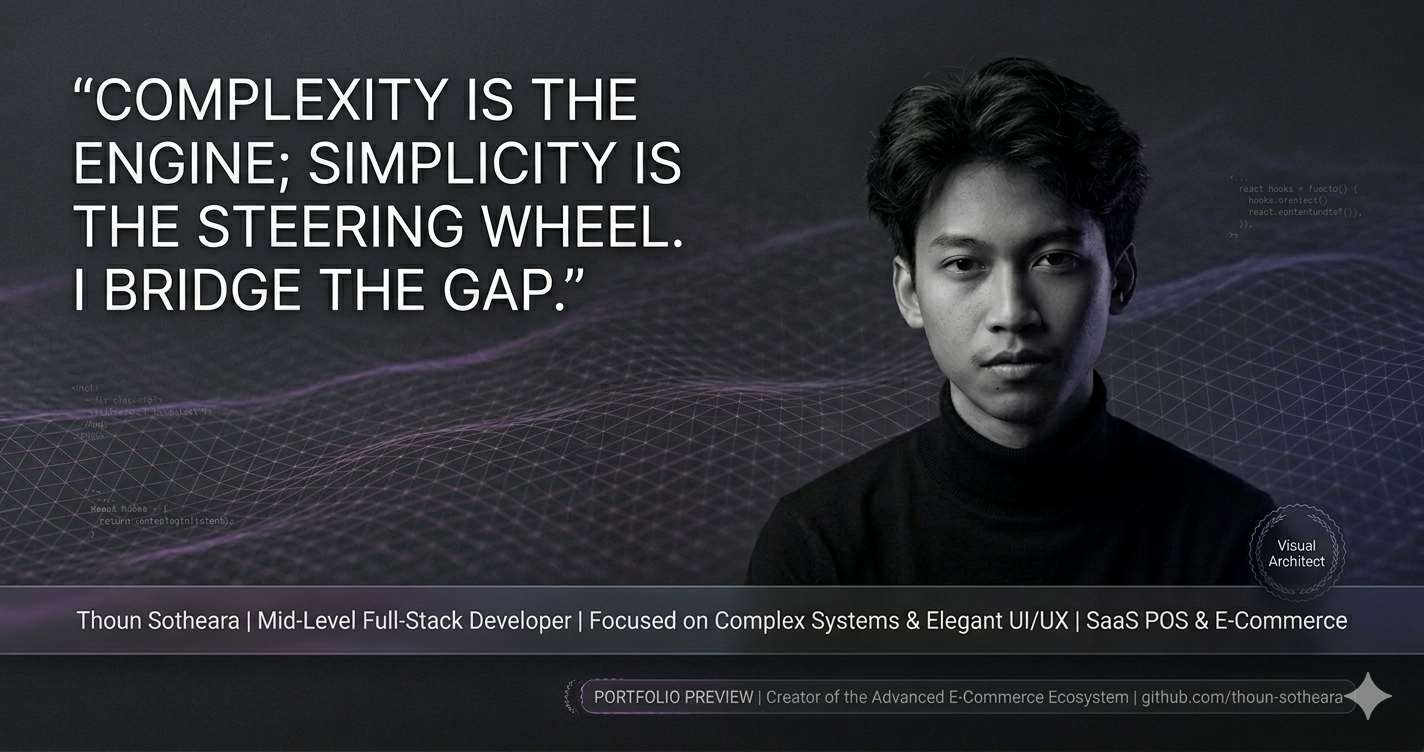
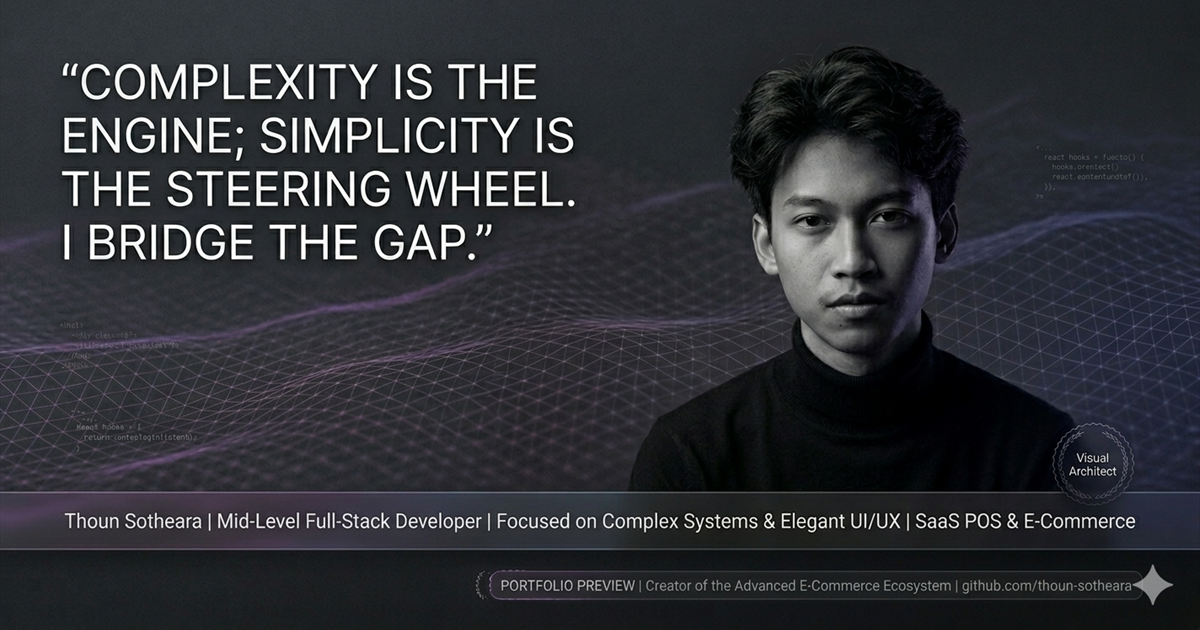
fix(seo): improve OG metadata, add JSON-LD, optimize OG image for Facebook

diff --git a/app/layout.tsx b/app/layout.tsx
@@ -18,6 +18,11 @@ const geistMono = Geist_Mono({
 export const metadata: Metadata = {
   title: "Sotheara Thoun — Full-Stack Developer & Problem Solver",
   description: PORTFOLIO.description,
+  applicationName: "Sotheara Portfolio",
+  category: "technology",
+  authors: [{ name: "Sotheara Thoun", url: PORTFOLIO.siteUrl }],
+  creator: "Sotheara Thoun",
+  publisher: "Sotheara Thoun",
   alternates: {
     canonical: PORTFOLIO.siteUrl,
   },
@@ -31,15 +36,31 @@ export const metadata: Metadata = {
     "Cambodia Developer",
   ],
   metadataBase: new URL(PORTFOLIO.siteUrl),
+  robots: {
+    index: true,
+    follow: true,
+    nocache: false,
+    googleBot: {
+      index: true,
+      follow: true,
+      "max-video-preview": -1,
+      "max-image-preview": "large",
+      "max-snippet": -1,
+    },
+  },
   openGraph: {
     title: "Sotheara Thoun — Full-Stack Developer",
     description:
       "6+ years building high-stakes digital infrastructure. 30+ projects. 5 live SaaS products. Specializing in real-time systems and e-commerce platforms.",
     type: "website",
+    siteName: "Sotheara Portfolio",
+    locale: "en_US",
     url: PORTFOLIO.siteUrl,
     images: [
       {
         url: PORTFOLIO.ogImage,
+        secureUrl: `${PORTFOLIO.siteUrl}${PORTFOLIO.ogImage}`,
+        type: "image/png",
         width: 1200,
         height: 630,
         alt: "Sotheara Thoun — Full-Stack Developer",
@@ -59,11 +80,37 @@ export default function RootLayout({
 }: Readonly<{
   children: React.ReactNode;
 }>) {
+  const structuredData = {
+    "@context": "https://schema.org",
+    "@type": "Person",
+    name: "Sotheara Thoun",
+    alternateName: "Thoun Sotheara",
+    jobTitle: "Full-Stack Developer",
+    url: PORTFOLIO.siteUrl,
+    image: `${PORTFOLIO.siteUrl}${PORTFOLIO.ogImage}`,
+    email: `mailto:${PORTFOLIO.email}`,
+    sameAs: [PORTFOLIO.github, PORTFOLIO.facebook],
+    description: PORTFOLIO.description,
+    knowsAbout: [
+      "Next.js",
+      "React",
+      "TypeScript",
+      "Node.js",
+      "SaaS Architecture",
+      "E-commerce Systems",
+    ],
+  };
+
   return (
     <html lang="en" className="dark scroll-smooth">
       <body
         className={`${geistSans.variable} ${geistMono.variable} bg-void antialiased`}
       >
+        <script
+          type="application/ld+json"
+          // Structured data improves rich search understanding for profile pages.
+          dangerouslySetInnerHTML={{ __html: JSON.stringify(structuredData) }}
+        />
         {children}
       </body>
     </html>
